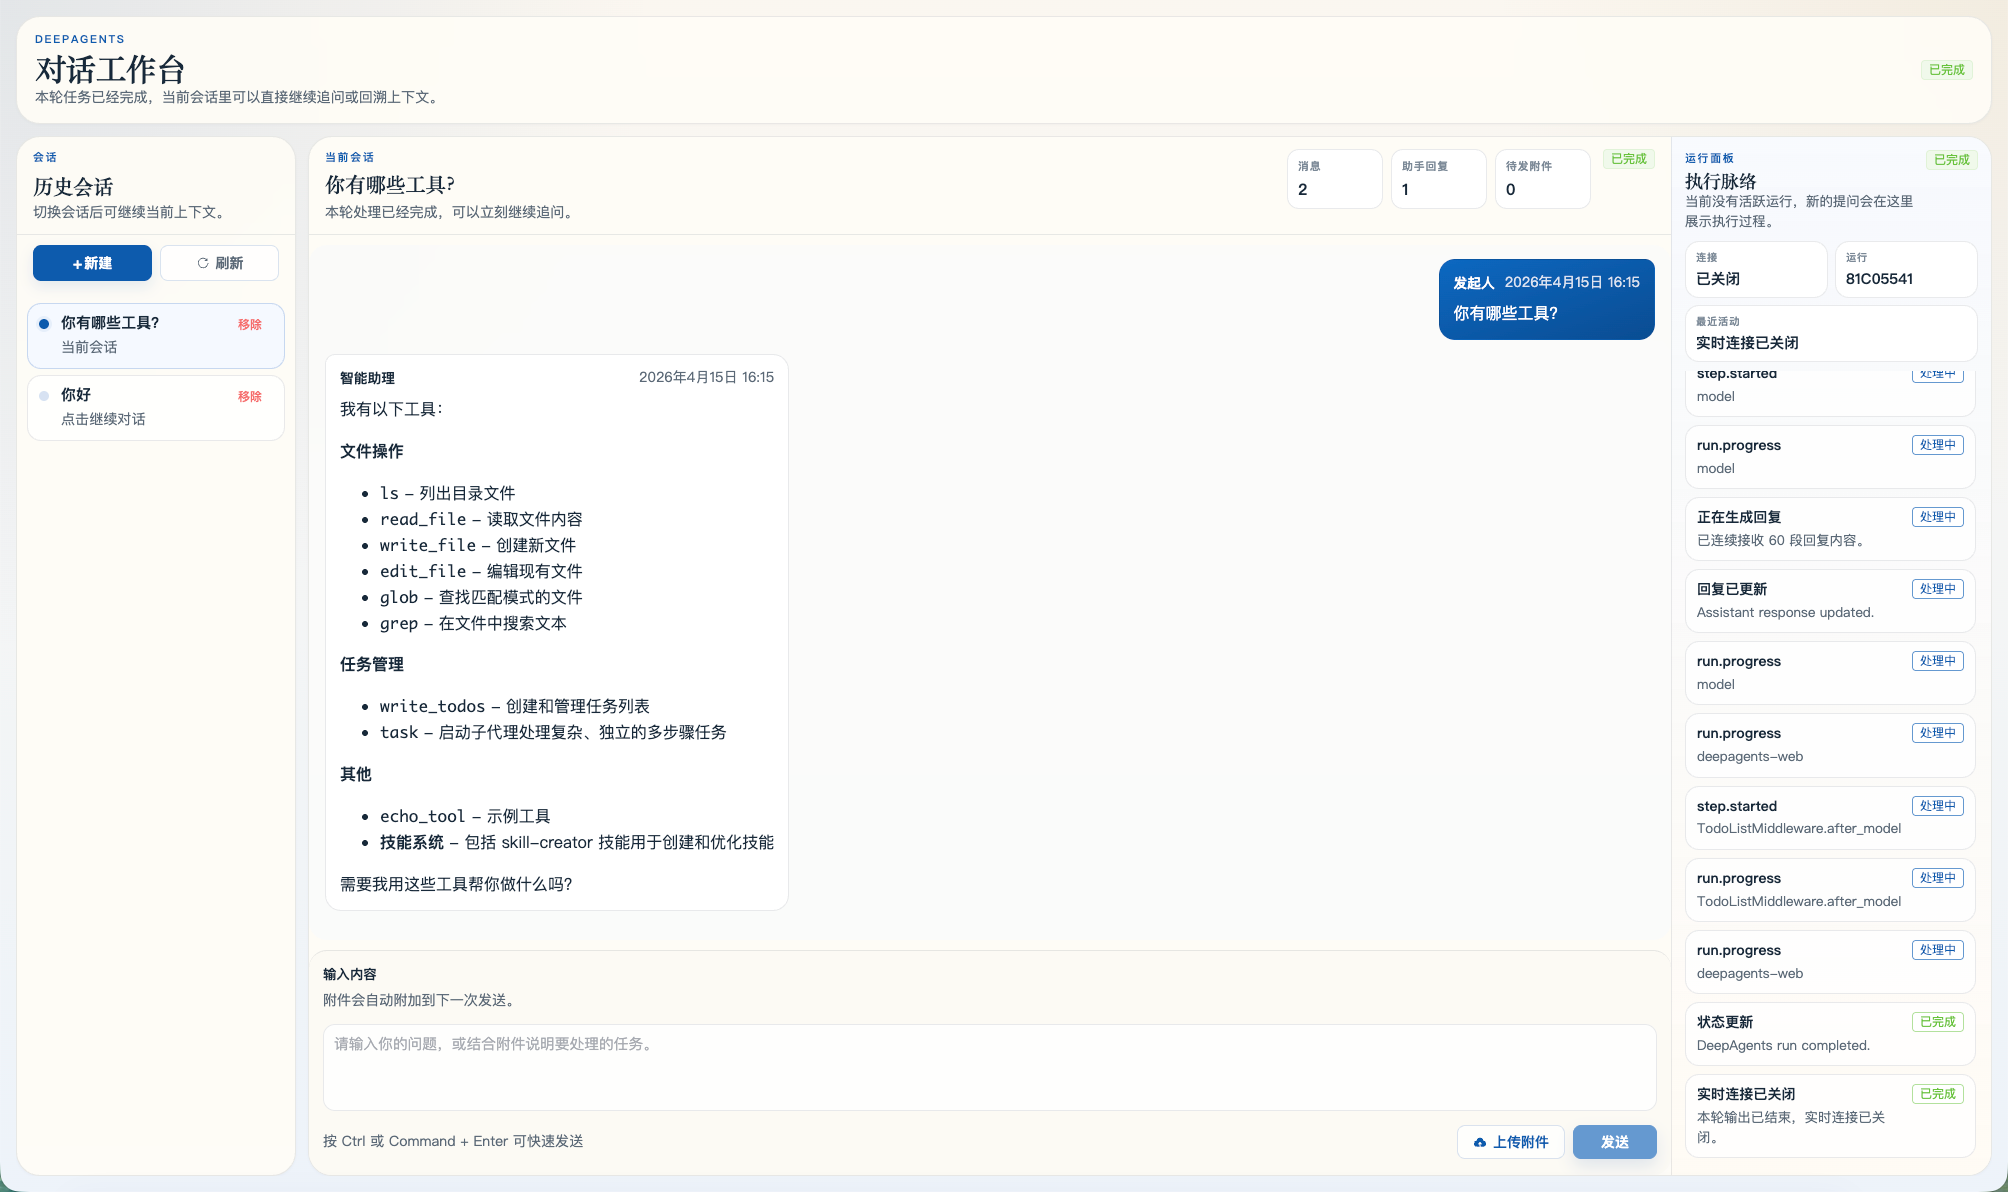
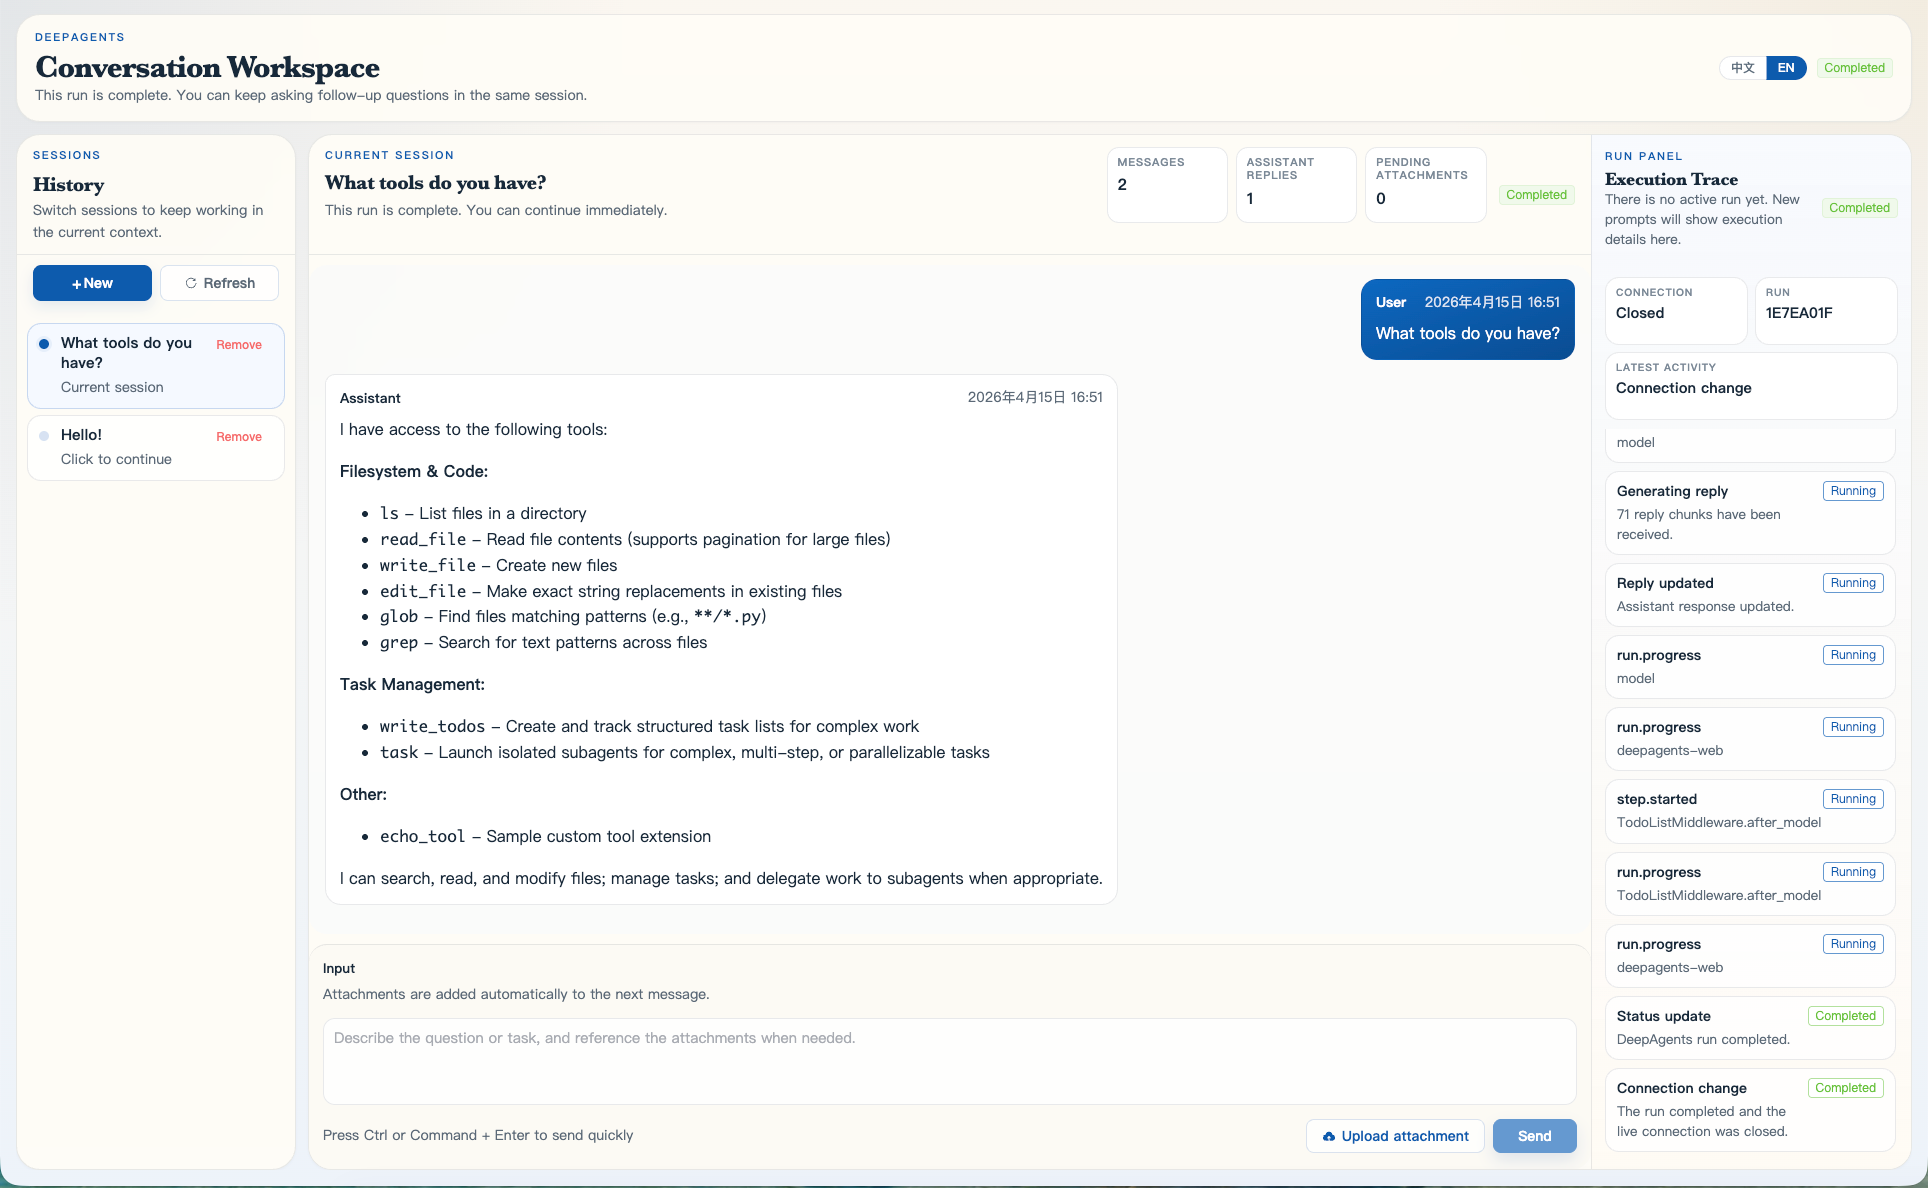
Keep the workspace header balanced as copy length changes
This tunes the shared header rhythm after the locale work so short labels still feel spacious while longer labels no longer drag the surrounding panels out of proportion. The screenshot refreshes capture the corrected balance for both languages.

Constraint: Chinese spacing should keep its original feel while longer English labels remain supportable
Constraint: Screenshot artifacts in the repo should match the current UI after the layout fix
Rejected: Let summary cards collapse to pure content height | made the header feel cramped and visually weaker
Rejected: Force every header block to stretch with the tallest content | kept alignment but made neighboring panels look bloated
Confidence: high
Scope-risk: narrow
Reversibility: clean
Directive: Prefer resilient baseline sizing over hard equal-height stretching when text length differs across locales
Tested: frontend lint, vitest, typecheck
Not-tested: Additional manual viewport checks after push

diff --git a/frontend/src/App.vue b/frontend/src/App.vue
@@ -1,5 +1,5 @@
 <script setup>
-import { computed, onBeforeUnmount, onMounted, ref } from 'vue'
+import { computed, nextTick, onBeforeUnmount, onMounted, ref, watch } from 'vue'
 import { ElMessageBox } from 'element-plus'
 
 import ChatWorkspace from './components/ChatWorkspace.vue'
@@ -64,6 +64,7 @@ const runtimeDiagnostics = computed(() => runStore.state.diagnostics)
 const runError = computed(() => runStore.state.error)
 const runStatus = computed(() => runStore.state.activeRun?.status || 'idle')
 const currentLocale = computed(() => localeState.current)
+const appShell = ref(null)
 const canStopRun = computed(
   () => ['queued', 'running'].includes(runStatus.value) && Boolean(activeRun.value?.runId),
 )
@@ -100,9 +101,57 @@ const showTimelinePanel = computed(() => isWideLayout.value || timelinePanelOpen
 const timelineToggleLabel = computed(() =>
   showTimelinePanel.value ? uiCopy.app.timelineToggle.close : uiCopy.app.timelineToggle.open,
 )
+let headerResizeObserver = null
 
 function handleLocaleChange(locale) {
   setLocale(locale)
+}
+
+function collectPanelHeaders() {
+  if (!appShell.value) {
+    return []
+  }
+  return [...appShell.value.querySelectorAll('.sidebar-header, .workspace-header, .runtime-header')]
+}
+
+function syncPanelHeaderHeights() {
+  if (!appShell.value) {
+    return
+  }
+  if (!isWideLayout.value) {
+    appShell.value.style.removeProperty('--panel-header-row-height')
+    return
+  }
+  const headers = collectPanelHeaders().filter((element) => element.offsetParent !== null)
+  if (headers.length === 0) {
+    appShell.value.style.removeProperty('--panel-header-row-height')
+    return
+  }
+  const maxHeight = Math.max(...headers.map((element) => Math.ceil(element.getBoundingClientRect().height)))
+  appShell.value.style.setProperty('--panel-header-row-height', `${maxHeight}px`)
+}
+
+function teardownHeaderResizeObserver() {
+  if (headerResizeObserver) {
+    headerResizeObserver.disconnect()
+    headerResizeObserver = null
+  }
+}
+
+function setupHeaderResizeObserver() {
+  teardownHeaderResizeObserver()
+  const ResizeObserverCtor = globalThis.ResizeObserver
+  if (typeof ResizeObserverCtor === 'undefined') {
+    syncPanelHeaderHeights()
+    return
+  }
+  headerResizeObserver = new ResizeObserverCtor(() => {
+    syncPanelHeaderHeights()
+  })
+  for (const header of collectPanelHeaders()) {
+    headerResizeObserver.observe(header)
+  }
+  syncPanelHeaderHeights()
 }
 
 function applyViewportLayout(matches) {
@@ -478,16 +527,27 @@ onMounted(async () => {
   } finally {
     authChecked.value = true
   }
+  await nextTick()
+  setupHeaderResizeObserver()
 })
 
 onBeforeUnmount(() => {
   closeStream()
+  teardownHeaderResizeObserver()
   teardownViewportTracking()
 })
+
+watch(
+  () => [isWideLayout.value, showTimelinePanel.value, currentLocale.value],
+  async () => {
+    await nextTick()
+    setupHeaderResizeObserver()
+  },
+)
 </script>
 
 <template>
-  <div class="app-shell">
+  <div ref="appShell" class="app-shell">
     <template v-if="isAuthenticated">
       <header class="app-toolbar">
         <div class="toolbar-brand">

diff --git a/frontend/src/styles.css b/frontend/src/styles.css
@@ -86,6 +86,7 @@ button {
 }
 
 .app-shell {
+  --panel-header-row-height: auto;
   height: 100dvh;
   min-height: 100dvh;
   padding: 16px;
@@ -290,6 +291,7 @@ button {
   align-items: flex-start;
   justify-content: space-between;
   gap: 10px 12px;
+  min-height: var(--panel-header-row-height);
   padding: 12px 16px 10px;
   border-bottom: 1px solid var(--line);
 }
@@ -310,7 +312,7 @@ button {
 
 .workspace-header-top {
   display: grid;
-  grid-template-columns: minmax(0, 1fr) minmax(220px, 320px);
+  grid-template-columns: minmax(0, 1fr) minmax(240px, 380px);
   gap: 10px 14px;
   align-items: start;
 }
@@ -335,7 +337,8 @@ button {
 }
 
 .sidebar-header-copy {
-  max-width: 24ch;
+  max-width: 100%;
+  text-wrap: pretty;
 }
 
 .sidebar-toolbar-actions {
@@ -465,12 +468,13 @@ button {
 }
 
 .workspace-summary-list {
-  grid-template-columns: repeat(3, minmax(72px, 96px));
+  grid-template-columns: repeat(3, minmax(88px, 1fr));
   align-self: start;
   justify-content: end;
 }
 
 .workspace-summary-list div {
+  min-height: 76px;
   padding: 8px 10px;
   border-radius: 12px;
 }
@@ -790,6 +794,7 @@ button {
   align-items: flex-start;
   justify-content: space-between;
   gap: 12px;
+  min-height: var(--panel-header-row-height);
 }
 
 .sidebar-toolbar-button.el-button {
@@ -806,7 +811,12 @@ button {
   display: flex;
   align-items: center;
   gap: 8px;
+  align-self: center;
   flex: 0 0 auto;
+}
+
+.runtime-header-actions {
+  align-self: center;
 }
 
 .sidebar-new-button.el-button {
@@ -894,6 +904,7 @@ button {
 }
 
 .runtime-summary-grid div {
+  min-height: 68px;
   padding: 8px 10px;
 }
 
@@ -903,6 +914,22 @@ button {
 
 .runtime-summary-grid dd {
   font-size: 0.92rem;
+}
+
+.workspace-summary-list dt,
+.runtime-summary-grid dt {
+  display: -webkit-box;
+  line-height: 1.25;
+  overflow: hidden;
+  -webkit-line-clamp: 2;
+  -webkit-box-orient: vertical;
+}
+
+.workspace-runtime-copy,
+.runtime-copy,
+.topbar-copy,
+.sidebar-header-copy {
+  text-wrap: pretty;
 }
 
 .composer-action-group > .el-button + .el-button {
